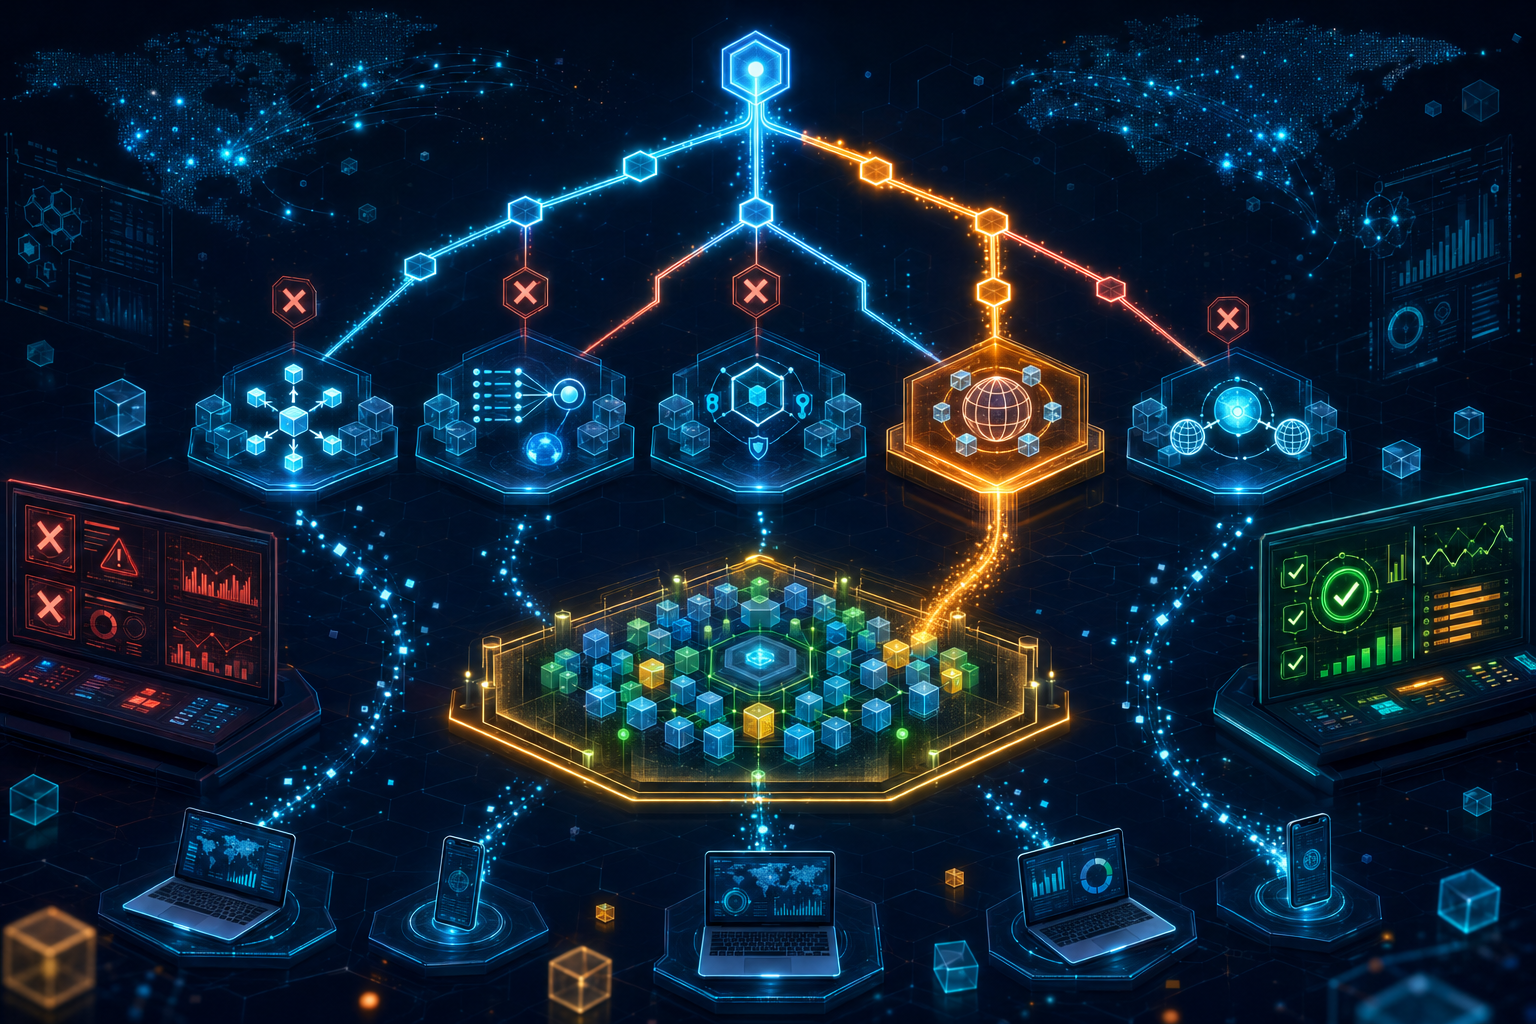
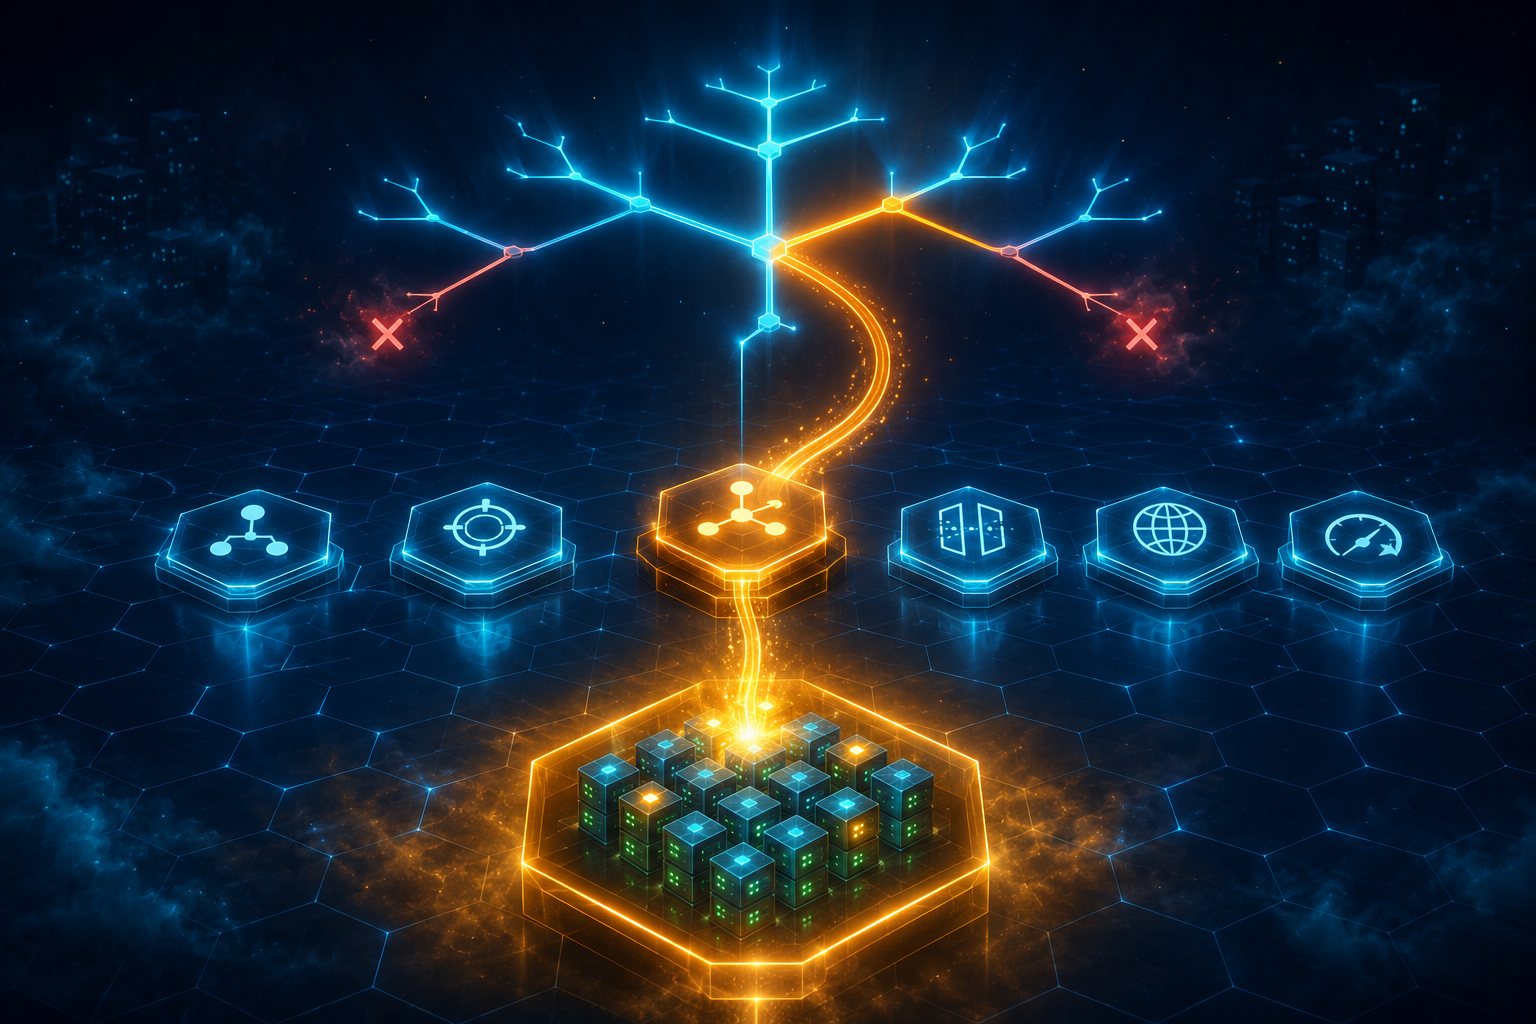
chore: AWS VPC Edge 라우팅 가이드 hero 이미지 v5 ambient depth 버전으로 교체 + CLAUDE.md 가이드 재조정 — v3가 콘솔 모니터/세계지도/foreground 디바이스 piles로 정신 산만하다는 피드백 반영, "ambient depth ≠ clutter" 원칙 명시(분위기·glow·distant low-opacity hints는 OK / 새 element type 추가는 NOT OK), CLAUDE.md에서 "fill all 4 quadrants" 강제 룰 제거하고 "empty navy co

diff --git a/CLAUDE.md b/CLAUDE.md
@@ -159,20 +159,37 @@ This blog has a consistent visual identity across all hero images. Every hero im
 - Objects have subtle shadows, reflections, and glass-like transparency
 - Items appear to float on or above dark surfaces with gentle elevation
 
-**Density & Layering (CRITICAL — most-violated rule):**
-- The composition MUST populate three depth layers — foreground, midground, background — none empty.
-- <strong>Foreground</strong>: small auxiliary objects close to the camera (small server nodes, laptops, mobile devices, satellites, signal towers, drifting cubes/spheres, individual user icons)
-- <strong>Midground</strong>: the main subject (central platform, hub, hexagonal slab) with its 3-5 supporting elements
-- <strong>Background</strong>: clouds, distant network grids, floating data fragments, additional faint platforms/datacenters, particle fields, holographic UI panels
-- <strong>Avoid empty corners</strong> — every quadrant of the image should contain at least secondary detail. Empty dark voids signal a sparse, weak composition.
-- Smell test: if you mentally delete the central subject, the remaining canvas should still feel populated with ambient richness.
-- Reference benchmarks for density: EKS Production Setup, Private EC2 Guide 1, Bastion Setting Guide — these are correctly populated. Aim for that level.
+**Focal Hierarchy & Depth (CRITICAL):**
+- ONE dominant focal element that the eye lands on first — an unmistakable visual anchor.
+- 3-5 supporting elements with clear visual hierarchy (smaller / less saturated than the focal).
+- Foreground should be MINIMAL — at most 1-2 small grounding objects, or none. Avoid stuffing laptops + mobiles + satellites + dishes + drifting cubes; that pile becomes clutter without narrative.
+- Detail comes from <strong>cluster density within elements</strong> (multi-colored cube clusters per element) and color semantics, NOT from adding more distinct element types.
+- Smell test: every element should answer "why is this here, narratively?" in one sentence. If it can't, it's clutter.
+- Reference benchmarks: DB Deadlock has ~6-8 distinct elements with empty navy corners (just grid + particles). Private EC2 Guide 1 has corners with only clouds/grids, no console monitors. Aim for that focal clarity, not maximum element count.
 
-**Cluster Patterns (key technique for richness):**
-- Server racks should be rendered as <strong>clusters of small cubes</strong> (5-15 stacked / arranged on a platform), not single monolithic boxes. This is what makes EKS / Kubernetes / Private EC2 hero images feel rich.
-- Multiple small node-like cubes scattered on or near platforms suggest distributed systems and add visual texture.
-- Vary cube colors within a cluster (mostly cyan, accented with green/orange/yellow cubes) to break monotony.
-- For abstract concepts (gateways, services), still surround the main icon with a cluster of supporting cubes/spheres.
+**Ambient Depth ≠ Clutter (the key distinction):**
+- "Empty navy corners" doesn't mean "literally flat black." Corners and background should still feel ATMOSPHERIC — depth lives there, just not new element types.
+- <strong>Ambient depth (good — adds richness)</strong>:
+  - Glowing hexagonal grid floor whose lines fade into the distance
+  - Soft volumetric mist / atmospheric haze in subtle accent colors
+  - Sparse drifting particles in the air (not swarms, but enough to suggest atmosphere)
+  - A few very faint distant cube clusters at low opacity in the deep background, hinting "more workloads exist" without competing for attention
+  - Strong glow halos around focal elements that bleed into the surrounding navy
+  - Soft glow rays emitting from focal elements upward into the void
+  - Floor reflections of the focal elements
+- <strong>Clutter (bad — adds noise)</strong>:
+  - Console monitors at corners
+  - Decorative world maps
+  - Multiple holograms hovering above the scene
+  - Foreground laptop / mobile / satellite / dish pile-ups
+  - Many drifting cubes scattered close to the camera
+  - Repeating the focal concept (e.g., main decision tree + a hovering decision-tree hologram)
+- The trick: when the scene feels too sparse, add ambient depth (atmosphere, glow, faint distant hints), NOT new element types.
+
+**Cluster Patterns (key technique for richness without clutter):**
+- Server racks should be rendered as <strong>clusters of small cubes</strong> (5-15 stacked / arranged on a platform), not single monolithic boxes. This is what makes EKS / Kubernetes / Private EC2 hero images feel rich while staying clean — the richness lives INSIDE one element, not across many element types.
+- Vary cube colors within a cluster (mostly cyan, accented with green/orange/yellow cubes) to break monotony — multi-color cube clusters are the main richness device.
+- For abstract concepts (gateways, services), still surround the main icon with a cluster of supporting cubes/spheres rather than adding new element types.
 
 **Lighting & Glow:**
 - Primary glow: Blue and cyan (#00b4d8, #48cae4) — used for connections, outlines, and ambient light
@@ -209,41 +226,39 @@ This blog has a consistent visual identity across all hero images. Every hero im
   - "CDN / edge / global" → cyan + magenta edges + green hit-cache + amber miss
 - Without 3+ visible colors the image looks weak and "AI-generated flat." Pick the palette first, then weave each color into specific elements before describing geometry.
 
-**Common Elements (use as appropriate):**
-- Server racks rendered as cube clusters, database cylinders, laptop screens showing code or dashboards
-- Cloud icons, shield/lock icons, gear/cog icons, satellite/antenna shapes
+**Common Elements (use sparingly — pick only what the narrative needs):**
+- Server racks rendered as cube clusters, database cylinders
+- Cloud icons, shield/lock icons, gear/cog icons
 - Arrows and flow lines showing data movement (glowing, directional, with traveling motion particles)
-- Many small spheres or cubes representing data, users, or requests — scatter liberally for ambient richness
-- Floating platforms at varying heights and sizes (multiple, not just one large central one)
-- Holographic decorative elements (faint UI charts, network maps, world maps in background consoles)
-- Side consoles or terminal monitors at the lower corners (NOC / command center feel)
+- A few small spheres or cubes scattered as ambient depth (sparse, not a swarm)
+- Floating platforms at varying heights (not too many — usually 1 central + 3-5 supporting)
+- Avoid: console monitors at corners, decorative world maps, multiple top-of-frame holograms, foreground laptop/mobile/satellite piles — these clutter without earning their narrative slot.
 
 **Composition:**
 - Centered main subject with supporting elements arranged around it
-- Clear visual hierarchy — one dominant element, 3-5 supporting elements, plus 5+ ambient/background elements for richness
-- <strong>Use the full canvas — corner-to-corner detail.</strong> Save breathing room for between objects, not for empty void areas of the canvas.
+- Clear visual hierarchy — one dominant element, 3-5 supporting elements
+- <strong>Empty navy corners with grid lines and particles are fine.</strong> Don't pile elements in corners; let the focal breathe.
 - Professional and polished, suitable for a senior backend engineering blog
 
 **Strict Rules:**
 - NEVER use white or light backgrounds
 - NEVER include text, labels, or watermarks in the image
 - NEVER use flat/minimal style or cartoon style
-- NEVER leave any quadrant of the image visually empty
 - ALWAYS maintain the dark navy isometric aesthetic
 - ALWAYS include at least one secondary accent color besides cyan/blue
 - ALWAYS render server-rack-like elements as cube clusters, not single boxes
+- LIMIT total distinct element types — pile-ups become clutter, not richness
 
 ### Hero Image Prompt Requirements
 
 When writing a hero image prompt for a blog post:
-- The prompt must be at least <strong>8 lines (sentences) long</strong> to ensure all layers AND the color palette are described.
-- <strong>Before writing the prompt, decide the color palette AND its semantics</strong> — pick 3 or 4 colors and assign each one a specific narrative role from the post (selected/rejected/baseline/destination/warning/etc.). If you can't articulate what each color MEANS in one sentence, the palette isn't ready. Then weave each color into specific elements as you describe geometry.
-- Line 1: Overall scene and background atmosphere — set the dark navy stage with depth, ambient particles, faint grids
-- Line 2: <strong>Background layer</strong> — distant clouds, faint grids, far-away platforms, particle fields, holographic UI panels, side consoles (with at least one secondary color in this layer)
-- Line 3-4: <strong>Midground main subject</strong> — central platform/hub/hex slab and its visual treatment (glow, edge neon, glass transparency, surrounding multi-colored cube cluster — mix green, orange, yellow with cyan)
-- Line 5: <strong>Supporting elements at midground</strong> — 3-5 secondary objects, each given its OWN distinctive accent color where the topic allows differentiation (e.g., one element amber, another magenta, another green)
-- Line 6: <strong>Foreground layer</strong> — small auxiliary objects close to camera (laptops, mobile devices, small node cubes, satellites, towers, drifting spheres) with status-light accents in mixed colors
-- Line 7: <strong>Motion and connections</strong> — flow arrows with motion particles, with active path glowing in one accent color (amber or gold) and rejected/inactive paths in another (coral or muted blue)
-- Line 8: <strong>Color palette summary line</strong> — explicitly name the 3-4 colors and where they appear, e.g., "primary cyan glow on the central VPC, amber/orange highlights on the active path and on-prem rack, green status lights on the AWS service cluster, and warm yellow accents in cube clusters"
-- Always end with: "Isometric 2.5D style, dark navy background, vibrant multi-color glow palette (cyan + [secondary] + [tertiary]), no text. Aspect ratio 3:2 (1536x1024)."
-- Reference specific existing blog images if helpful — e.g., "similar density and color richness to the EKS Production Setup hero image, with multi-colored cube-cluster server racks"
+- The prompt should be <strong>5-6 lines (sentences) long</strong> — long enough to describe the focal, the supporting cast, and the color semantics; short enough that the AI doesn't pile on extra elements.
+- <strong>Before writing the prompt, decide the color palette AND its narrative semantics</strong> — pick 3 or 4 colors and assign each one a specific narrative role from the post (selected/rejected/baseline/destination/warning/etc.). If you can't articulate what each color MEANS in one sentence, the palette isn't ready.
+- Line 1: Scene atmosphere — dark navy gradient, subtle grid, sparse ambient particles. Keep the background simple and uncluttered.
+- Line 2: <strong>The dominant focal element</strong> — what the eye lands on first, with its visual treatment (glow, edge neon, glass transparency, surrounding multi-colored cube cluster of cyan + green + yellow + orange to add richness).
+- Line 3: <strong>3-5 supporting elements</strong> arranged around the focal — each rendered cleanly, not cluttered. Where the topic allows differentiation, give each a distinct accent color tied to its narrative role.
+- Line 4: <strong>Motion and connections</strong> — flow arrows with motion particles, with active/successful paths glowing in one accent color (amber or gold) and rejected/blocked paths in another (coral with X-marks).
+- Line 5: <strong>Color palette summary</strong> — explicitly name the 3-4 colors and the narrative role of each, e.g., "cyan = baseline candidates, amber = the selected path, coral with X-marks = rejected anti-patterns, gold = destination reached."
+- Optional Line 6: a single small foreground or background grounding detail IF it adds narrative (e.g., "a small floating tile in the lower foreground with a debugger's highlight beam"). Skip this if not needed.
+- Always end with: "Isometric 2.5D style, dark navy background, multi-color narrative palette (cyan + [secondary] + [tertiary]), no text. Aspect ratio 3:2 (1536x1024)."
+- Reference benchmarks for clarity — e.g., "similar focal clarity to the DB Deadlock hero image where every color tells a specific part of the story, with empty navy corners and depth from particles rather than corner clutter."
